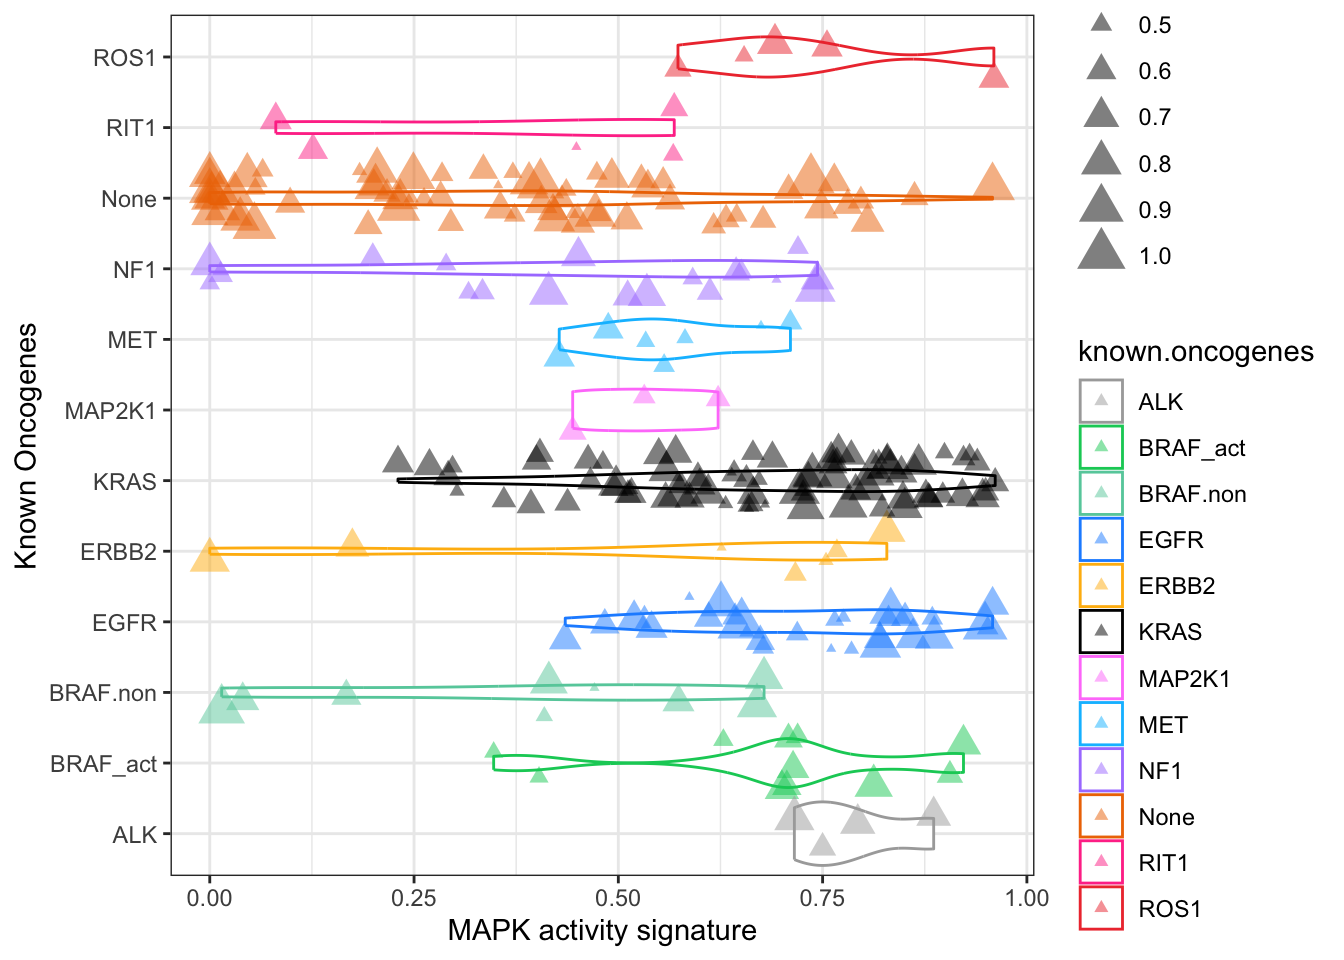
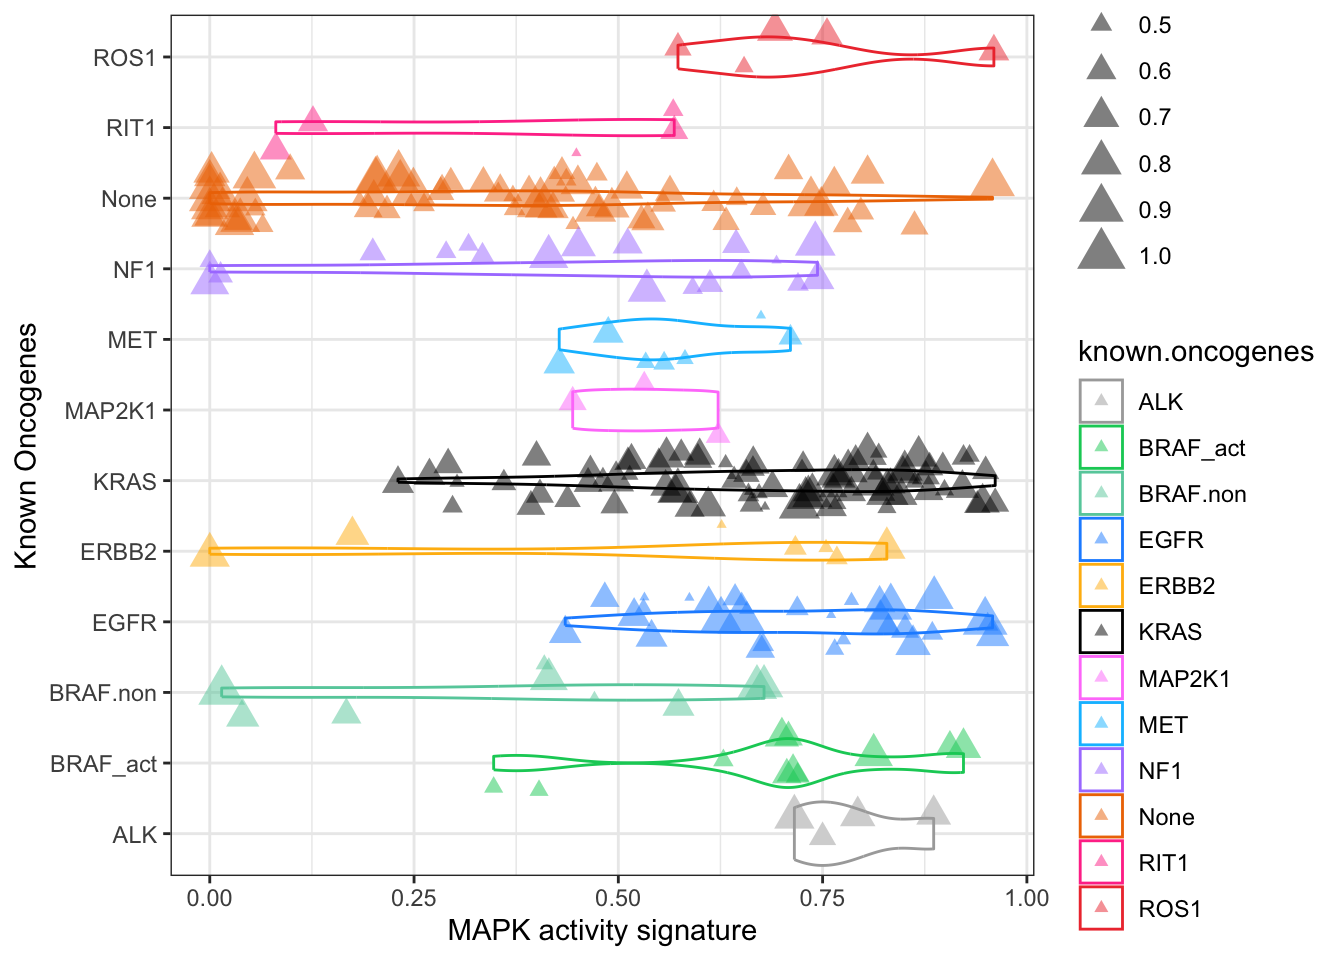
density plot

diff --git a/tuto_ggplot2.html b/tuto_ggplot2.html
@@ -578,24 +578,54 @@ Key words to write on your favorite browser
 </section>
 <section id="create-a-density-plot" class="level2">
 <h2 class="anchored" data-anchor-id="create-a-density-plot">Create a density plot</h2>
-<p>Your goal is to produce the following plot showing the density distributions of the MAPK signature in function of the known oncogenes.</p>
+<p>Your goal is to produce the following plot showing the <strong>density distributions</strong> of the MAPK signature in function of the known oncogenes (use <code>palette.known.onco</code>). Here we introduce the customization of the plot dimensions, we want to force the plot to have be x-axis 3 times longer than the y-axis which we call the <strong>aspect ratio</strong>. Thanks to it, you can force to have squared plots for instance.</p>
 <div class="cell">
 <div class="cell-output-display">
 <p><img src="tuto_ggplot2_files/figure-html/unnamed-chunk-23-1.png" class="img-fluid" width="672"></p>
 </div>
 </div>
 <ol type="1">
-<li><p>Identify what contain the axis.</p></li>
-<li><p>Make a list of the aesthetics you need to modify.</p></li>
-<li><p>Identify the appropriate geometric function.</p></li>
+<li>Identify what contain the axis.</li>
 </ol>
+<p>&lt;details&gt;</p>
+<summary>
+Answer
+</summary>
+<p>The x-axis contains the value of the column <code>signature_MAPK</code> and the y-axis indicates the density of the distribution, the y-axis do not need to be specified.</p>
+
+<ol start="2" type="1">
+<li>Make a list of the aesthetics you need to modify and layers that need to be added.</li>
+</ol>
+<p>&lt;details&gt;</p>
+<summary>
+Answer
+</summary>
+<ul>
+<li><p>layers: the geometric shape, label of the x-axis, theme background, theme aspect ratio, custom color palette</p></li>
+<li><p>aesthetics: x-axis , color of the lines</p></li>
+</ul>
+
+<ol start="3" type="1">
+<li>Write your code ! (Do not forget your best friend: the Web)</li>
+</ol>
+<div class="cell">
+<details>
+<summary>Code</summary>
+<div class="sourceCode cell-code" id="cb30"><pre class="sourceCode r code-with-copy"><code class="sourceCode r"><span id="cb30-1"><a href="#cb30-1" aria-hidden="true" tabindex="-1"></a><span class="fu">ggplot</span>(<span class="at">data =</span> clinical, <span class="fu">aes</span>(<span class="at">x=</span>signature_MAPK)) <span class="sc">+</span></span>
+<span id="cb30-2"><a href="#cb30-2" aria-hidden="true" tabindex="-1"></a>  <span class="fu">geom_density</span>(<span class="fu">aes</span>(<span class="at">color=</span>known.oncogenes)) <span class="sc">+</span> </span>
+<span id="cb30-3"><a href="#cb30-3" aria-hidden="true" tabindex="-1"></a>  <span class="fu">labs</span>(<span class="at">x=</span><span class="st">"MAPK activity signature"</span>) <span class="sc">+</span></span>
+<span id="cb30-4"><a href="#cb30-4" aria-hidden="true" tabindex="-1"></a>  <span class="fu">theme_bw</span>() <span class="sc">+</span></span>
+<span id="cb30-5"><a href="#cb30-5" aria-hidden="true" tabindex="-1"></a>  <span class="fu">scale_colour_manual</span>(<span class="at">values=</span>palette.known.onco) <span class="sc">+</span></span>
+<span id="cb30-6"><a href="#cb30-6" aria-hidden="true" tabindex="-1"></a>  <span class="fu">theme</span>(<span class="at">aspect.ratio =</span> <span class="dv">1</span><span class="sc">/</span><span class="dv">3</span>)</span></code><button title="Copy to Clipboard" class="code-copy-button"><i class="bi"></i></button></pre></div>
+</details>
+</div>
 </section>
 <section id="create-a-bar-plot" class="level2">
 <h2 class="anchored" data-anchor-id="create-a-bar-plot">Create a bar plot</h2>
 <p>Your goal is to produce the following plot showing the number of tumor harboring each known oncogene.</p>
 <div class="cell">
 <div class="cell-output-display">
-<p><img src="tuto_ggplot2_files/figure-html/unnamed-chunk-24-1.png" class="img-fluid" width="672"></p>
+<p><img src="tuto_ggplot2_files/figure-html/unnamed-chunk-25-1.png" class="img-fluid" width="672"></p>
 </div>
 </div>
 <ol type="1">
